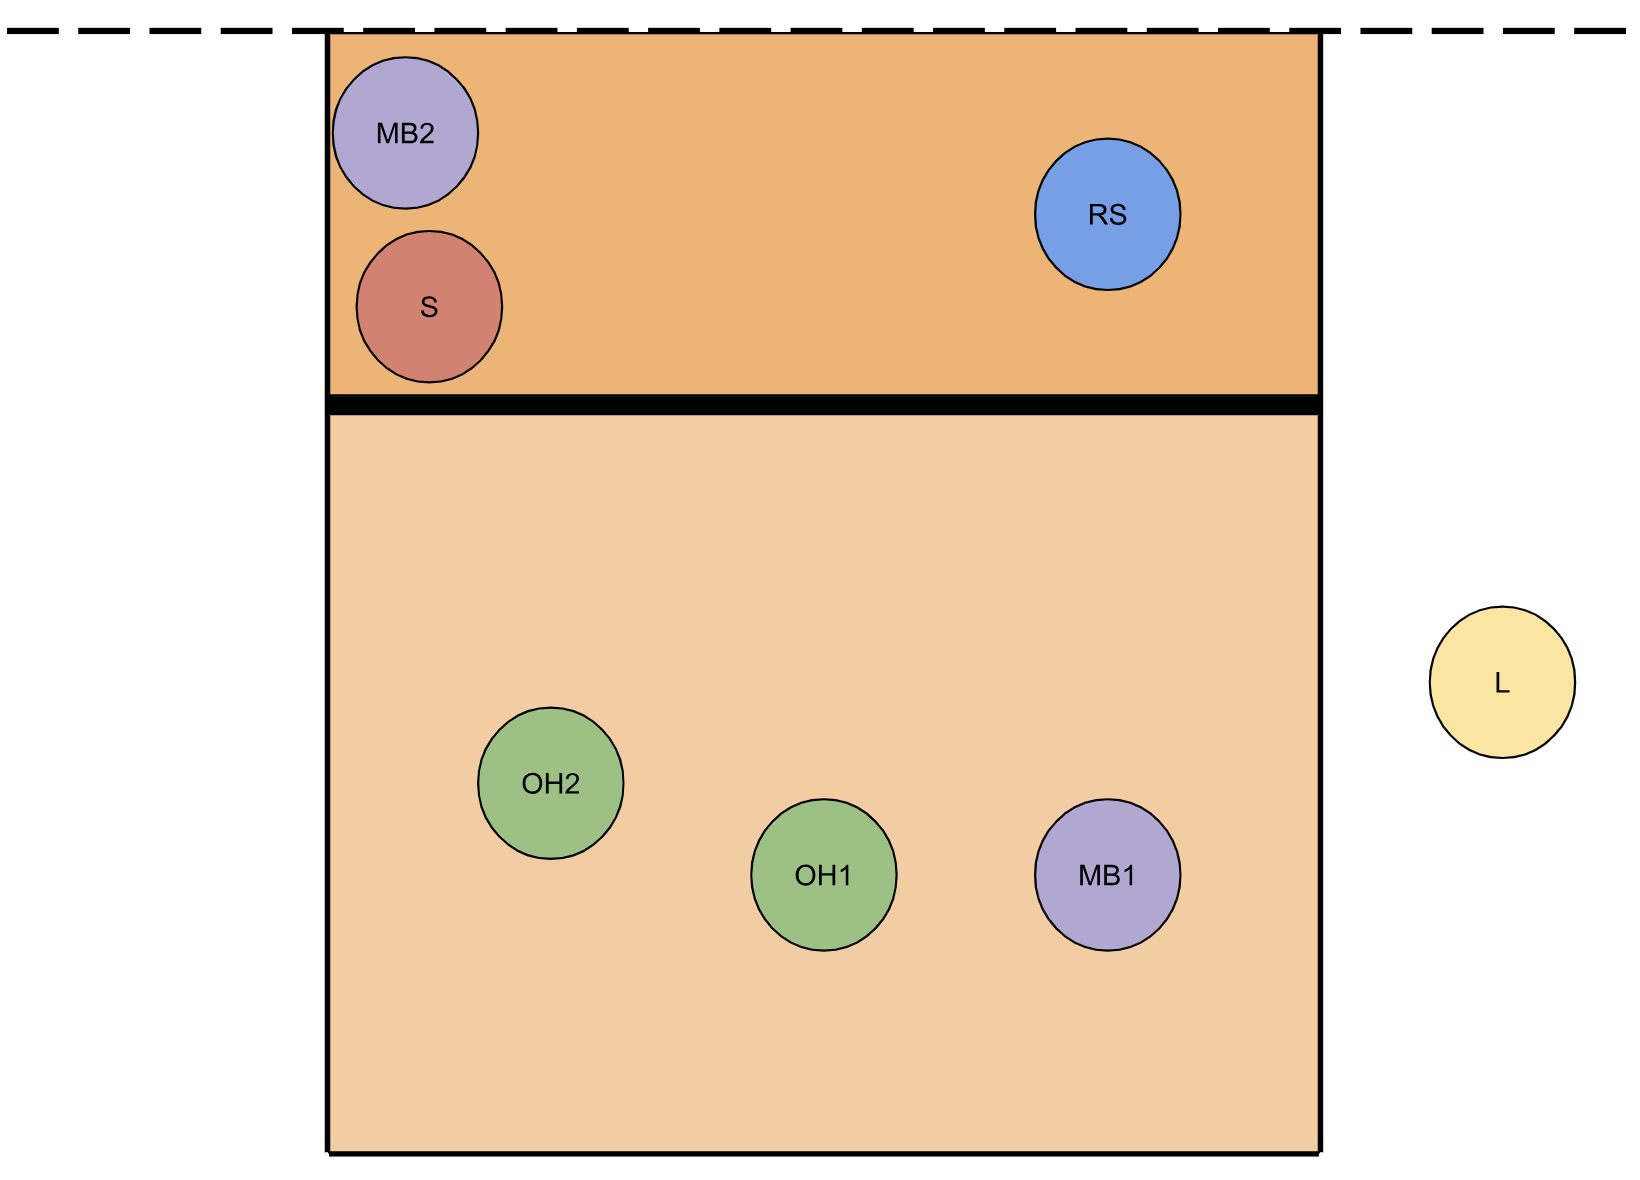
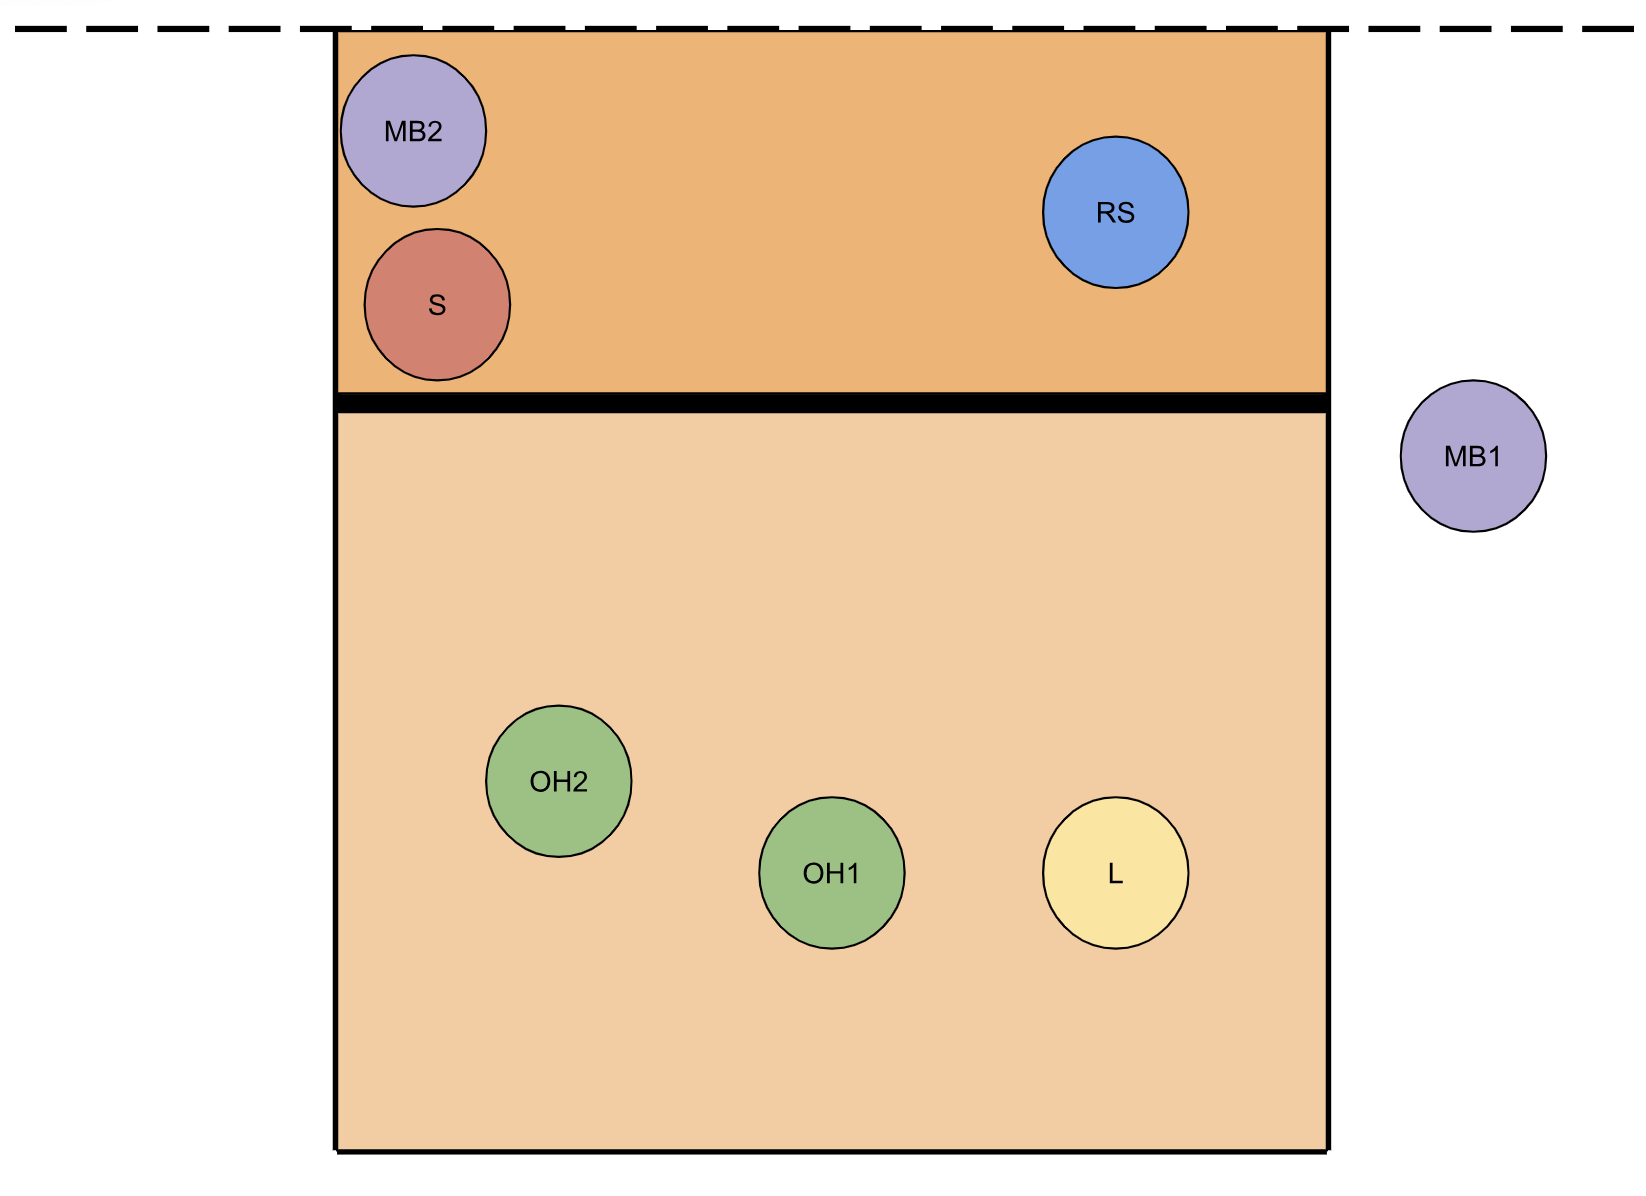
added paragraphs and lists
added explanations for base positions and rotations 1, 2,3,4 and half of 5.

diff --git a/vballrotations/src/Rotation1.js b/vballrotations/src/Rotation1.js
@@ -12,15 +12,36 @@ function Rotation1 () {
 
             <h2>R1 Serve</h2>
             <div class="flex justify-around">
-                <p>With the setter serving first, the outside hitter in the back row will switch with the libero to get into base positions. And the right side and outside hitters in the front row will switch to also get into base positions. </p>
+
+
+                <div>
+                    <p>In the first rotation, the setter serves first. </p>
+                    <ul>
+                        <li>The libero and outside hitter 2 group up and switch when the setter serves to get into base positions.</li>
+                        <li>Then the middle blocker, right side, and outside hitter 1, group up. Once the setter serves, the outside hitter and right side hitter will switch to get into base positions.</li>
+                    </ul>
+                </div>
+
+
                 <img class="w-1/2" src={R1Serve}/>
+
             </div>
 
 
             <h2>R1 Serve Receive</h2>
             <div class="flex justify-around">
-                <p>Now that this rotation is receiving, the outside hitter in the front row, will move back to cover the setter so they don't have to receive. However, the setter cannot go in front of the outside hitter.</p>
+
+                <div>
+                    <p>Now this rotation will receive a serve from the enemy team.</p>
+                    <ul>
+                        <li>The right side hitter will back up to the 10 foot line to cover the short serves.</li>
+                        <li>The outside hitter 1 will back up to cover the setter, making sure they don't receive. However, the outside hitter cannot go behind the setter until the serve is hit.</li>
+                        <li>Once the serve goes over, the setter will run up to the setting position and the other players will receive.</li>
+                    </ul>
+                </div>
+
                 <img class="w-1/2" src={R1SR}/>
+
             </div>
             
 

diff --git a/vballrotations/src/Rotation4.js b/vballrotations/src/Rotation4.js
@@ -11,17 +11,41 @@ function Rotation4 () {
 
 
             <h2>Rotation 4 Serve</h2>
-            <div>
-                <p></p>
+            <div class="flex justify-around">
+
+                <div>
+                    <p>The right side will now serve.</p>
+                    <ul>
+                        <li>In the front row, the setter, middle blocker 2 and outside hitter 2 will group up. Outside hitter 2 and the setter will switch so the setter takes the front right position.</li>
+                        <li>In the back row, the libero and outside hitter 1 will group up. Once the serve is hit, the libero will go back right and outside hitter 1 will go middle back.</li>
+                        <li>The right side hitter will go back right after serving.</li>
+                    </ul>
+                </div>
+
+
                 <img class="w-1/2" src={R4Serve}/>
+
+
             </div>
 
 
 
             <h2>Rotation 4 Serve Receive</h2>
-            <div>
-                <p></p>
+            <div class="flex justify-around">
+
+                <div>
+                    <p>Now rotation 4 will serve receive.</p>
+                    <ul>
+                        <li>The setter will push to the top left corner with middle blocker 2 pushed up behind them.</li>
+                        <li>Outside hitter 2 will back up to back left to receive. They have to stay to the right of middle blocker 2. They also have to stay in front of outside hitter 1 and the libero.</li>
+                        <li>The right side hitter will back up into the corner with the libero covering them so they don't have to receive.</li>
+                    </ul>
+                </div>
+
+
                 <img class="w-1/2" src={R4SR}/>
+
+
             </div>
 
 

diff --git a/vballrotations/src/Rotation2.js b/vballrotations/src/Rotation2.js
@@ -10,16 +10,38 @@ function Rotation2 () {
 
             <h2>Rotation 2 Serve</h2>
             <div class="flex justify-around">
-                <p></p>
+
+                <div>
+                    <p>Now the rotation shifts one time, and one of the outside hitters is serving.</p>
+                    <ul>
+                        <li>The libero and setter group up. And when the serve is hit, the setter goes to back right to get into base positions.</li>
+                        <li>After the serve is hit, outside hitter 1 will go to the middle back position.</li>
+                        <li>The front row players will group up. The middle blocker and right side will switch into base positions after the serve is hit.</li>
+                    </ul>
+                </div>
+
                 <img class="w-1/2" src={R2Serve}/>
+                
             </div>
 
 
             <h2>Rotation 2 Serve Receive</h2>
             <div class="flex justify-around">
-                <p></p>
+
+                <div>
+                    <p>Now it is rotation 2 serve receive.</p>
+                    <ul>
+                        <li>The outside hitter 2 will move back to receive. However they cannot go behind the libero or they will be "out of rotation".</li>
+                        <li>The setter will go up to the front row behind the right side. But the setter cannot be to the left of the libero or to the right of outside hitter 1.</li>
+                        <li>The middle blocker will back up to the 10 foot line to receive short serves.</li>
+                    </ul>
+                </div>
+
                 <img class="w-1/2" src={R2SR}/>
+
             </div>
+
+
         </div>
     )
 }

diff --git a/vballrotations/src/Rotation3.js b/vballrotations/src/Rotation3.js
@@ -12,17 +12,40 @@ function Rotation3 () {
 
 
             <h2>Rotation 3 Serve</h2>
-            <div>
-                <p></p>
+            <div class="flex justify-around">
+
+                <div>
+                    <p>The libero can't play front row, so the other middle blocker takes their place in the front row. They also can't serve so the first middle blocker serves.</p>
+                    <ul>
+                        <li>The front row will group up to get into base positions.</li>
+                        <li>The setter and back outside hitter group up to get into base positions.</li>
+                        <li>Middle blocker 1 will take the libero's place and play back left.</li>
+                    </ul>
+                </div>
+
+
                 <img class="w-1/2" src={R3Serve}/>
+
+
             </div>
 
 
 
             <h2>Rotation 3 Serve Receive</h2>
-            <div>
-                <p></p>
+            <div class="flex justify-around">
+
+                <div>
+                    <p>Rotation 3 will now serve receive. The libero is back in rotation to receive, they replace middle blocker 1.</p>
+                    <ul>
+                        <li>The setter moves up behind middle blocker 2.</li>
+                        <li>Outside hitter 2 will move to back right to receive. But they have to stay in front of outside hitter 1. They also have to stay to the right of middle blocker 2.</li>
+                    </ul>
+                </div>
+
+
                 <img class="w-1/2" src={R3SR}/>
+
+
             </div>
 
 

diff --git a/vballrotations/src/Rotation5.js b/vballrotations/src/Rotation5.js
@@ -10,16 +10,38 @@ function Rotation5 () {
 
 
             <h2>Rotation 5 Serve</h2>
-            <div>
-                <p></p>
+            <div class="flex justify-around">
+
+                <div>
+                    <p>The rotation shifts over another time so that outside hitter 2 is serving.</p>
+                    <ul>
+                        <li>Players in the front row will group up, and the setter will go to front right, and middle blocker 2 will go to the middle front.</li>
+                        <li>In the back row, the libero and right side will group up. After the serve, the right side will go back right, libero will go back left.</li>
+                        <li>After serving, outside hitter 2 will go middle back.</li>
+                    </ul>
+                </div>
+
+
                 <img class="w-1/2" src={R5Serve}/>
+
+
             </div>
 
 
             <h2>Rotation 5 Serve Receive</h2>
-            <div>
-                <p></p>
+            <div class="flex justify-around">
+
+                <div>
+                    <p></p>
+                    <ul>
+                        <li></li>
+                    </ul>
+                </div>
+
+
                 <img class="w-1/2" src={R5SR}/>
+
+
             </div>
 
 

diff --git a/vballrotations/src/Rotation6.js b/vballrotations/src/Rotation6.js
@@ -9,13 +9,13 @@ function Rotation6 () {
             <h1>Rotation 6</h1>
 
             <h2>Rotation 6 Serve</h2>
-            <div>
+            <div class="flex justify-around">
                 <p></p>
                 <img class="w-1/2" src={R6Serve}/>
             </div>
 
             <h2>Rotation 6 Serve Receive</h2>
-            <div>
+            <div class="flex justify-around">
                 <p></p>
                 <img class="w-1/2" src={R6SR}/>
             </div>
